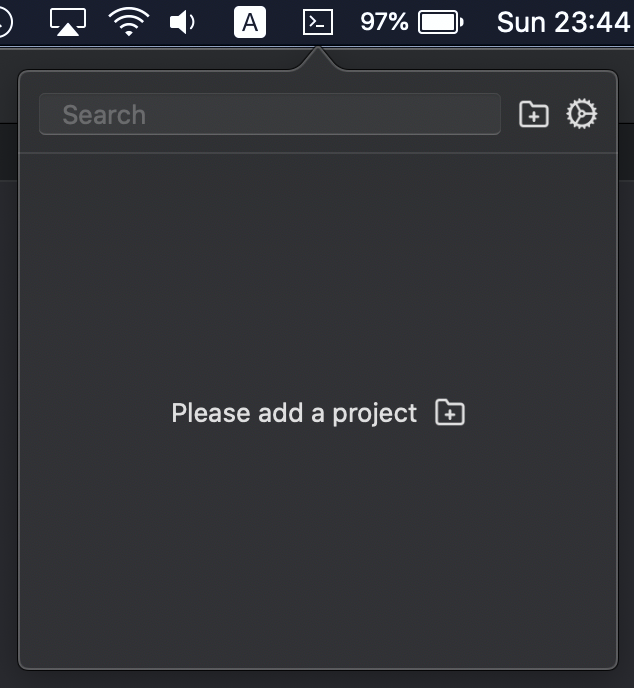
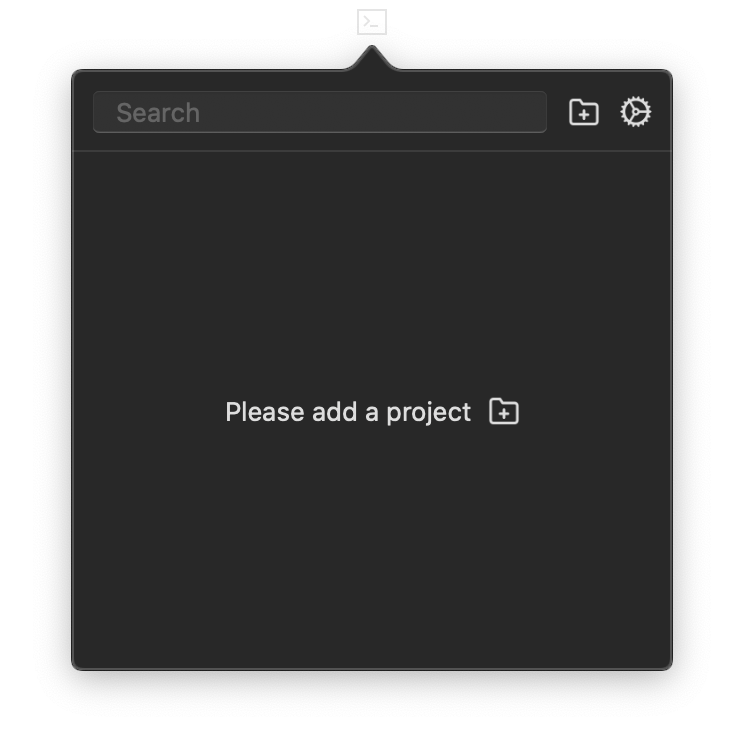
fixed readme and new image examples

diff --git a/README.md b/README.md
@@ -1,57 +1,57 @@
 # XcodeProjects
-Switch between projects in 2 clicks. Don't write "pod install", "pod update" and "cd <your project>" anymore
+Switch between projects in 2 clicks. Don't write "pod install", "pod update" and "cd <your project>" in the terminal anymore!
   
 # When do you need this tool
-- when you want to open quickly specific xcode project
-- when you need to change directory of your project in the terminal 
-- when you type "pod install" and "pod update" in the terminal
-- when you want quickly open your project in "SourceTree"
-- when you have a lot of projects or modules/frameworks and you need to switch between them quickly
+- you want to open quickly specific Xcode project
+- you need to change directory to point to your project in the terminal 
+- you type "pod install" and "pod update" in the terminal too often. Do it in 2 clicks
+- you want quickly open your project in SourceTree
+- you have a lot of projects or modules/frameworks and you need to switch between them quickly
   
 # How to install
-Go to release section in this repo and download the binary. Drag & drop XcodeProjects.app to your Application folder. Enjoy
+Go to release section in this repo and download the binary. Drag & drop XcodeProjects.app to your Application folder. Enjoy! 
 
-# How to use 
-After first run of the app 
+# Design 
+When you open the app for the first time you would see empty screen
 
 ![alt text](https://github.com/DKalachniuk/XcodeProjects/blob/master/blob/master/Images/example_empty_list.png?raw=true)
 
-click "+" button and add folder(s) of you project(s) within dialog.
+click "+" button to add folder of you project within system dialog (Hint: choose multiple projects)
 
-![alt text](https://github.com/DKalachniuk/XcodeProjects/blob/master/blob/master/Images/example_list_of_projects.png?raw=true)
+![alt text](https://github.com/DKalachniuk/XcodeProjects/blob/master/blob/master/Images/example_list_of_projects_dark.png?raw=true)
+![alt text](https://github.com/DKalachniuk/XcodeProjects/blob/master/blob/master/Images/example_list_of_projects_light.png?raw=true)
 
-**Click "arrows" button to open your xcode workspace/project**
+**Click "arrows" button to open your Xcode workspace/project**
 
 **Click "..." button to see the options** 
 
-![alt text](https://github.com/DKalachniuk/XcodeProjects/blob/master/blob/master/Images/example_context_menu.png?raw=true)
+![alt text](https://github.com/DKalachniuk/XcodeProjects/blob/master/blob/master/Images/example_context_menu_dark.png?raw=true)
+![alt text](https://github.com/DKalachniuk/XcodeProjects/blob/master/blob/master/Images/example_context_menu_light.png?raw=true)
 
-**Open in Terminal** - opens the path of the project in terminal. Handy to quicly switch to the folder of the project
+**Open in Terminal** - opens the path to the project in terminal. Handy to quickly switch to the folder of the project
 
 **Show in Finder** - opens the folder of the project in Finder
 
-**Open in Sourcetree** - opens the folder of the project in Sourcetree(if you have Sourcetree)
-
+**Open in Sourcetree** - opens the folder of the project in Sourcetree (if you have Sourcetree)
 
 **Pod install** - runs "pod install" command in terminal for the project
 
 **Pod update** - runs "pod update" command in terminal for the project
 
-
 **Remove from the list** - removes project from the list
 
 Also it is possible to drag projects around.
 
-![alt text](https://github.com/DKalachniuk/XcodeProjects/blob/master/blob/master/Images/example_drag_and_drop.png?raw=true)
+![alt text](https://github.com/DKalachniuk/XcodeProjects/blob/master/blob/master/Images/example_drag_and_drop_dark.png?raw=true)
 
 
-**Clear Xcode derived data** - removes Xcode derived data from standart location ~/Library/Developer/Xcode/DerivedData
+**Clear Xcode derived data** - removes Xcode derived data from default location ~/Library/Developer/Xcode/DerivedData
 
 # Support
 Just simple star ⭐ will make my life happier :) 
 
 If you want to support this project, feel free to send some coffee money to this [link](paypal.me/dkalachniuk)
-If you don't want to spend money, you can still support me if you will share this tool with your colleagues and tell them how nice it is and how it improved your workflow.
+If you don't want to spend money, you can still support me if you will share this tool with your colleagues.
 
 # Ideas
 - add command to support carthage update
@@ -67,7 +67,7 @@ If you don't want to spend money, you can still support me if you will share thi
 
 # Special Thanks
 Special thanks to 
-- [Solokub](https://github.com/Solokub) - for providing awesome logo. 🥳
+- [Solokub](https://github.com/Solokub) - for providing awesome design for the app. 🥳
 - [Gui Rambo](https://gumroad.com/insidegui) - for his awesome project "StatusBuddy". [Gui Rambo's github](https://github.com/insidegui)
 
 # Badges
